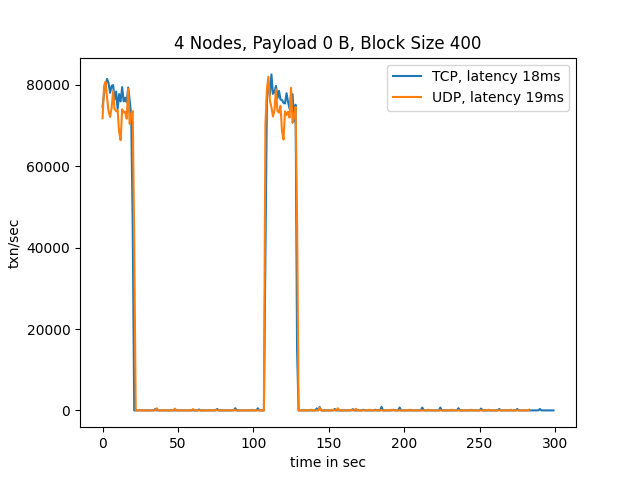
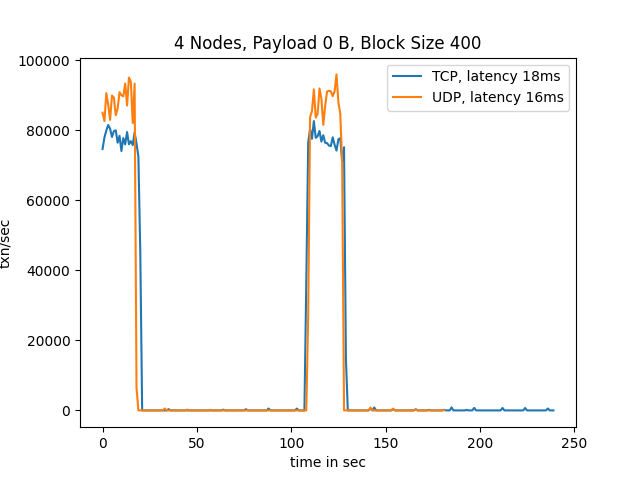
HotStuff: update log

diff --git a/hotstuff/evaluation/plot.py b/hotstuff/evaluation/plot.py
@@ -13,6 +13,8 @@ def plot_thr(fname, arrays, latency):
     udp_latency = str(latency[1])
 
     max_x = 300
+    if (n == 4) max_x = 240
+
     tcp_data = arrays[0][:max_x]
     udp_data = arrays[1][:max_x]
 
@@ -31,17 +33,21 @@ if __name__ == '__main__':
     ## Payload 0
     # 4 Nodes
     n4_tcp_pay0_b400 = [74593, 77870, 79894, 81456, 80397, 78037, 79707, 79941, 76394, 78360, 74029, 77724, 75924, 79442, 75946, 76850, 75711, 79358, 76158, 72468, 45233, 0, 0, 0, 0, 0, 0, 0, 0, 0, 0, 0, 0, 0, 0, 358, 0, 0, 0, 0, 0, 0, 0, 0, 0, 0, 0, 0, 0, 0, 0, 0, 0, 0, 0, 0, 0, 0, 0, 0, 0, 0, 0, 0, 218, 0, 0, 0, 0, 0, 0, 0, 0, 0, 0, 0, 345, 0, 0, 0, 0, 0, 0, 0, 0, 0, 0, 0, 535, 0, 0, 0, 0, 0, 0, 0, 0, 0, 0, 0, 0, 0, 0, 525, 0, 0, 0, 0, 36902, 76510, 80319, 77519, 82569, 77788, 78270, 79754, 76701, 78543, 76383, 76289, 75578, 75418, 77958, 75807, 74146, 77382, 77700, 71065, 75104, 14653, 0, 0, 0, 0, 0, 0, 0, 0, 0, 0, 0, 0, 492, 0, 842, 0, 0, 0, 0, 0, 0, 0, 0, 0, 350, 0, 0, 0, 0, 0, 0, 0, 0, 0, 0, 0, 304, 0, 0, 0, 0, 0, 0, 157, 0, 0, 0, 0, 0, 0, 0, 175, 0, 0, 0, 855, 0, 0, 0, 0, 0, 0, 0, 156, 0, 0, 0, 715, 0, 0, 0, 0, 0, 0, 0, 0, 0, 0, 0, 0, 0, 0, 700, 0, 0, 0, 0, 0, 0, 0, 0, 0, 0, 0, 700, 0, 0, 0, 0, 0, 0, 0, 0, 0, 0, 0, 540, 0, 0, 0, 0, 0, 0, 0, 0, 0, 0, 0, 0, 0, 0, 464, 0, 0, 0, 0, 0, 0, 0, 0, 0, 0, 0, 350, 0, 0, 0, 0, 0, 0, 0, 0, 0, 0, 0, 350, 0, 0, 0, 0, 0, 0, 0, 0, 0, 0, 0, 0, 0, 0, 350, 0, 0, 0, 0, 0, 0, 0, 0, 0, 0, 0, 350, 0, 0, 0, 0, 0, 0, 0, 0, 0, 0, 0, 263, 0, 0, 0, 0, 0, 0, 0, 0, 0, 0, 0, 0, 0, 0, 175, 0, 0, 0, 0, 0, 0, 0, 0, 0, 0, 0, 175, 0, 0, 0, 0, 0, 0, 0, 0, 0, 0, 0, 175, 0, 0, 0, 0, 0, 0, 0, 0, 0, 0, 0, 0, 0, 0, 175, 0, 0, 0, 0, 0, 0, 0, 0, 0, 0, 0, 175, 0, 0, 0, 0, 0, 0, 0, 0, 0, 0, 0, 175, 0, 0, 0, 0, 0, 0, 0, 0, 0, 0, 0, 0, 0, 0, 175, 0, 0, 0, 0, 0, 0, 0, 0, 0, 0, 0, 175]
-    n4_udp_pay0_b400 = [71781, 79702, 80775, 76817, 73470, 72108, 74235, 78400, 74050, 73520, 73822, 68424, 66396, 74028, 73192, 73434, 71689, 79086, 70412, 72832, 73556, 41612, 0, 0, 0, 0, 0, 0, 0, 0, 0, 0, 0, 0, 0, 0, 512, 0, 0, 0, 0, 0, 0, 0, 0, 0, 0, 0, 453, 0, 0, 0, 0, 0, 0, 0, 0, 0, 0, 0, 319, 0, 0, 0, 0, 0, 0, 0, 0, 0, 0, 0, 0, 0, 0, 175, 0, 0, 0, 0, 0, 0, 0, 0, 0, 0, 0, 175, 0, 0, 0, 0, 0, 0, 0, 0, 0, 0, 0, 175, 0, 0, 0, 0, 0, 0, 0, 0, 70299, 79034, 82000, 76087, 74497, 72208, 73734, 78887, 73529, 73183, 74826, 68600, 66561, 73504, 72542, 73391, 71934, 79283, 70668, 72463, 74586, 46793, 0, 0, 0, 0, 0, 0, 0, 0, 175, 0, 0, 0, 0, 0, 688, 0, 0, 0, 0, 0, 0, 0, 0, 175, 0, 0, 525, 0, 0, 0, 0, 0, 0, 0, 0, 175, 0, 0, 388, 0, 0, 0, 0, 0, 0, 0, 0, 175, 0, 0, 0, 0, 0, 140, 0, 0, 0, 0, 0, 0, 0, 0, 175, 0, 0, 0, 0, 0, 0, 0, 0, 0, 0, 0, 175, 0, 0, 0, 0, 0, 0, 0, 0, 0, 0, 0, 175, 0, 0, 0, 0, 0, 0, 0, 0, 0, 0, 0, 0, 0, 0, 175, 0, 0, 0, 0, 0, 0, 0, 0, 0, 0, 0, 0, 175, 0, 0, 0, 0, 0, 0, 0, 0, 0, 0, 0, 175, 0, 0, 0, 0, 0, 0, 0, 0, 0, 0, 0, 0, 0, 0, 175, 0, 0, 0, 0, 0, 0, 0, 0, 0, 0, 0, 175]
+    n4_udp_pay0_b400 = [84959, 82563, 90545, 87239, 82906, 89854, 89262, 84253, 86120, 90815, 89950, 89628, 93292, 87008, 94996, 93816, 82026, 93263, 6463, 0, 0, 0, 0, 0, 0, 0, 0, 0, 0, 0, 0, 0, 0, 547, 0, 0, 0, 0, 0, 0, 0, 0, 0, 0, 0, 238, 0, 0, 0, 0, 0, 0, 0, 0, 0, 0, 0, 175, 0, 0, 0, 0, 0, 0, 0, 0, 0, 0, 0, 0, 0, 0, 82, 0, 0, 0, 0, 0, 0, 0, 0, 0, 0, 0, 0, 0, 0, 0, 0, 0, 0, 0, 0, 0, 0, 0, 0, 0, 0, 0, 0, 0, 0, 0, 0, 0, 0, 0, 0, 26850, 83676, 85418, 91627, 83556, 84642, 91873, 88950, 81499, 86948, 90979, 91252, 91082, 89678, 91092, 95894, 87977, 84680, 70569, 0, 0, 0, 0, 0, 0, 0, 0, 0, 0, 0, 0, 0, 0, 823, 0, 0, 0, 0, 0, 0, 0, 0, 0, 0, 0, 525, 0, 0, 0, 0, 0, 0, 0, 0, 0, 0, 0, 328, 0, 0, 0, 0, 0, 0, 0, 0, 0, 0, 0, 0, 0, 0, 82]
+    
+    fail_n4_udp_pay0_b400 = [71781, 79702, 80775, 76817, 73470, 72108, 74235, 78400, 74050, 73520, 73822, 68424, 66396, 74028, 73192, 73434, 71689, 79086, 70412, 72832, 73556, 41612, 0, 0, 0, 0, 0, 0, 0, 0, 0, 0, 0, 0, 0, 0, 512, 0, 0, 0, 0, 0, 0, 0, 0, 0, 0, 0, 453, 0, 0, 0, 0, 0, 0, 0, 0, 0, 0, 0, 319, 0, 0, 0, 0, 0, 0, 0, 0, 0, 0, 0, 0, 0, 0, 175, 0, 0, 0, 0, 0, 0, 0, 0, 0, 0, 0, 175, 0, 0, 0, 0, 0, 0, 0, 0, 0, 0, 0, 175, 0, 0, 0, 0, 0, 0, 0, 0, 70299, 79034, 82000, 76087, 74497, 72208, 73734, 78887, 73529, 73183, 74826, 68600, 66561, 73504, 72542, 73391, 71934, 79283, 70668, 72463, 74586, 46793, 0, 0, 0, 0, 0, 0, 0, 0, 175, 0, 0, 0, 0, 0, 688, 0, 0, 0, 0, 0, 0, 0, 0, 175, 0, 0, 525, 0, 0, 0, 0, 0, 0, 0, 0, 175, 0, 0, 388, 0, 0, 0, 0, 0, 0, 0, 0, 175, 0, 0, 0, 0, 0, 140, 0, 0, 0, 0, 0, 0, 0, 0, 175, 0, 0, 0, 0, 0, 0, 0, 0, 0, 0, 0, 175, 0, 0, 0, 0, 0, 0, 0, 0, 0, 0, 0, 175, 0, 0, 0, 0, 0, 0, 0, 0, 0, 0, 0, 0, 0, 0, 175, 0, 0, 0, 0, 0, 0, 0, 0, 0, 0, 0, 0, 175, 0, 0, 0, 0, 0, 0, 0, 0, 0, 0, 0, 175, 0, 0, 0, 0, 0, 0, 0, 0, 0, 0, 0, 0, 0, 0, 175, 0, 0, 0, 0, 0, 0, 0, 0, 0, 0, 0, 175]
     
     # 8 Nodes
     n8_tcp_pay0_b400 = [68133, 77065, 76588, 75450, 75558, 75922, 74677, 73542, 73197, 75483, 74297, 76045, 74172, 73599, 76744, 73477, 73270, 72965, 72658, 72252, 72668, 27675, 0, 0, 0, 0, 0, 0, 0, 0, 0, 0, 0, 583, 0, 0, 0, 0, 0, 0, 0, 0, 0, 0, 0, 700, 0, 0, 0, 0, 0, 0, 0, 0, 0, 0, 0, 325, 0, 0, 0, 0, 0, 0, 0, 0, 0, 0, 0, 700, 0, 0, 0, 0, 0, 0, 0, 0, 0, 0, 0, 0, 0, 0, 0, 0, 0, 0, 0, 325, 0, 0, 0, 0, 0, 0, 0, 0, 0, 0, 0, 725, 0, 0, 0, 0, 0, 0, 36094, 73852, 75171, 72928, 74350, 74379, 73813, 72774, 74315, 73297, 71717, 76000, 74001, 73362, 74781, 72597, 72659, 72803, 71829, 71747, 72564, 69491, 9239, 0, 0, 0, 0, 0, 0, 0, 0, 0, 705, 0, 617, 0, 0, 0, 0, 0, 0, 0, 0, 0, 0, 0, 875, 700, 0, 0, 0, 0, 0, 0, 0, 0, 0, 0, 875, 523, 0, 0, 0, 0, 0, 0, 0, 0, 0, 0, 475, 0, 0, 0, 131, 219, 0, 0, 0, 0, 0, 0, 0, 0, 0, 0, 0, 191, 0, 0, 875, 0, 0, 0, 0, 0, 0, 0, 0, 350, 0, 0, 771, 0, 0, 0, 0, 0, 0, 0, 0, 350, 0, 0, 0, 0, 0, 700, 0, 0, 0, 0, 0, 0, 0, 0, 350, 0, 0, 700, 0, 0, 0, 0, 0, 0, 0, 0, 350, 0, 0, 720, 0, 0, 0, 0, 0, 0, 0, 0, 0, 0, 0, 350, 0, 0, 700, 0, 0, 0, 0, 0, 0, 0, 0, 350, 0, 0, 700, 0, 0, 0, 0, 0, 0, 0, 0, 350, 0, 0, 0, 0, 0, 700, 0, 0, 0, 0, 0, 350, 0, 0, 0, 0, 0, 609, 0, 0, 0, 0, 0, 0, 0, 0, 350, 0, 0, 525, 0, 0, 0, 0, 0, 0, 0, 0, 350, 0, 0, 450, 0, 0, 0, 0, 0, 0, 0, 0, 0, 0, 0, 350, 0, 0, 350, 0, 0, 0, 0, 0, 0, 0, 0, 350, 0, 0, 350, 0, 0, 0, 0, 0, 0, 0, 0, 0, 0, 0, 0, 0, 0, 350, 0, 0, 0, 0, 0, 0, 0, 0, 0, 0, 0, 350, 0, 0, 0, 0, 0, 0, 0, 0, 0, 0, 0, 350, 0, 0, 0, 0, 0, 0, 0, 0, 0, 0, 0, 350, 0, 0, 0, 0, 0, 0, 0, 0, 0, 0, 0, 0, 0, 0, 350, 0, 0, 0, 0, 0, 0, 0, 0, 0, 0, 0, 350, 0, 0, 0, 0, 0, 0, 0, 0, 0, 0, 0, 0, 0, 0, 350, 0, 0, 0, 0, 0, 0, 0, 0, 0, 0, 0, 350]
-    n8_udp_pay0_b400 = [500, 0, 0, 0, 0, 0, 0, 0, 0, 0, 0, 0, 0, 0, 0, 655, 0, 0, 0, 0, 0, 0, 0, 0, 0, 0, 0, 745, 0, 0, 0, 0, 0, 0, 0, 0, 0, 0, 0, 0, 0, 0, 42164, 45503, 45606, 46789, 45619, 45492, 45237, 45230, 45639, 42799, 45443, 45974, 44589, 46431, 45627, 45858, 46203, 45017, 46141, 46356, 45559, 45404, 45013, 44946, 44876, 45450, 45084, 45071, 45266, 45080, 45500, 46116, 4015, 0, 0, 0, 0, 0, 0, 0, 0, 0, 0, 0, 0, 0, 0, 0, 0, 0, 0, 0, 489, 0, 0, 0, 0, 0, 0, 0, 0, 0, 0, 0, 0, 0, 700, 0, 0, 0, 0, 0, 0, 0, 0, 0, 0, 0, 0, 0, 0, 545, 0, 0, 0, 0, 0, 0, 0, 0, 0, 0, 0, 855, 0, 0, 0, 0, 312, 0, 0, 0, 0, 0, 0, 0, 0, 0, 32778, 40112, 40506, 40994, 40648, 39938, 40086, 39825, 40480, 37959, 40488, 40532, 39843, 40297, 40768, 40402, 40687, 39838, 40657, 41185, 40102, 40318, 39971, 39138, 39568, 40576, 39792, 40001, 39936, 39742, 40234, 40649, 8718, 0, 0, 0, 0, 477, 0, 0, 0, 0, 0, 0, 0, 0, 0, 0, 0, 0, 0, 0, 1151, 0, 0, 0, 0, 0, 0, 0, 0, 0, 0, 0, 0, 0, 0, 0, 0, 0, 0, 0, 700, 0, 0, 0, 0, 0, 0, 0, 0, 0, 0, 0, 0, 0, 0, 332, 0, 0, 0, 0, 0, 0, 0, 0, 0, 0, 459, 700, 0, 0, 0, 0, 0, 0, 0, 0, 0, 0, 0, 0, 0, 0, 427, 0, 0, 0, 1018, 0, 0, 0, 0, 0, 0, 0, 0, 0, 0, 0, 0, 0, 0, 467, 700, 0, 0, 0, 0, 0, 0, 0, 0, 0, 0, 752, 0, 0, 0, 336, 0, 0, 0, 0, 0, 0, 0, 0, 0, 0, 610, 700, 0, 0, 0, 0, 0, 0, 0, 0, 0, 0, 0, 0, 0, 0, 547, 0, 0, 0, 1050, 0, 0, 0, 0, 0, 0, 0, 0, 0, 0, 0, 0, 0, 0, 718, 0, 0, 0, 0, 0, 0, 0, 0, 0, 0, 0, 1050, 0, 0, 0, 0, 0, 0, 0, 0, 0, 0, 0, 0, 0, 0, 623, 0, 0, 0, 0, 0, 0, 0, 0, 0, 0, 0, 0, 0, 0, 0, 0, 0, 0, 0, 1050, 0, 0, 0, 0, 0, 0, 0, 0, 0, 0, 0, 0, 0, 0, 714, 0, 0, 0, 0, 0, 0, 0, 0, 0, 0, 0, 1050, 0, 0, 0, 0, 0, 0, 0, 0, 0, 0, 0, 0, 0, 0, 503]
-    n8_udp_pay0_b400_2 = [1378, 0, 0, 0, 0, 0, 0, 0, 0, 0, 0, 0, 0, 0, 0, 697, 0, 0, 0, 0, 0, 0, 0, 0, 0, 0, 0, 2057, 0, 0, 0, 0, 0, 0, 0, 0, 0, 0, 0, 0, 0, 0, 0, 0, 0, 0, 0, 0, 0, 0, 0, 0, 0, 0, 0, 0, 0, 0, 0, 0, 0, 0, 0, 0, 0, 0, 0, 0, 0, 0, 0, 0, 0, 677, 0, 0, 0, 0, 0, 0, 0, 0, 0, 0, 0, 31017, 42191, 42150, 41774, 41804, 41148, 41321, 42089, 41921, 41991, 42502, 42351, 42908, 42783, 43542, 43011, 43226, 43570, 33150, 29883, 29447, 29890, 29875, 31325, 29842, 29905, 29377, 29238, 29837, 29644, 29875, 30455, 29742, 29708, 29447, 39437, 41667, 43993, 45183, 0, 0, 0, 0, 0, 0, 0, 0, 0, 0, 0, 2777, 241, 0, 0, 0, 0, 0, 0, 0, 0, 0, 0, 0, 664, 0, 0, 0, 0, 0, 0, 0, 0, 0, 0, 0, 0, 0, 0, 0, 0, 0, 0, 0, 0, 0, 0, 0, 0, 0, 0, 0, 0, 0, 0, 0, 0, 523, 0, 0, 0, 0, 0, 0, 0, 0, 0, 0, 0, 25241, 42538, 42699, 41896, 41847, 41693, 42009, 42142, 42375, 42022, 43074, 43639, 42951, 43953, 43699, 43624, 43336, 44203, 35575, 29984, 30084, 29936, 29681, 30951, 29914, 30809, 29593, 29649, 29766, 30118, 30269, 30522, 29930, 29906, 29982, 37321, 42561, 40704, 31709, 3920, 0, 0, 0, 0, 0, 0, 0, 0, 0, 0, 0, 525, 0, 0, 0, 0, 0, 0, 0, 0, 0, 0, 0, 536, 0, 0, 0, 0, 0, 0, 0, 0, 0, 0, 0, 0, 0, 0, 0, 0, 0, 0, 0, 442, 0, 0, 0, 0, 0, 0, 0, 0, 0, 0, 0, 882, 0, 0, 0, 0, 0, 0, 0, 0, 0, 0, 0, 595, 0, 621, 0, 0, 0, 0, 0, 0, 0, 0, 0, 0, 0, 571, 0, 0, 0, 0, 0, 0, 0, 0, 0, 0, 0, 497, 0, 0, 0, 0, 0, 0, 0, 0, 0, 0, 0, 592, 0, 0, 0, 0, 0, 0, 0, 0, 0, 0, 0, 0, 0, 0, 0, 0, 0, 0, 0, 0, 0, 0, 0, 0, 0, 0, 0, 0, 0, 0, 0, 0, 0, 0, 0, 0, 0, 0, 0, 0, 0, 0, 0, 0, 0, 283, 0, 0, 0, 0, 0, 0, 0, 0, 0, 0, 0, 793, 0, 0, 0, 0, 0, 0, 0, 0, 0, 0, 0, 605]
+    
+    
+    fail_n8_udp_pay0_b400 = [500, 0, 0, 0, 0, 0, 0, 0, 0, 0, 0, 0, 0, 0, 0, 655, 0, 0, 0, 0, 0, 0, 0, 0, 0, 0, 0, 745, 0, 0, 0, 0, 0, 0, 0, 0, 0, 0, 0, 0, 0, 0, 42164, 45503, 45606, 46789, 45619, 45492, 45237, 45230, 45639, 42799, 45443, 45974, 44589, 46431, 45627, 45858, 46203, 45017, 46141, 46356, 45559, 45404, 45013, 44946, 44876, 45450, 45084, 45071, 45266, 45080, 45500, 46116, 4015, 0, 0, 0, 0, 0, 0, 0, 0, 0, 0, 0, 0, 0, 0, 0, 0, 0, 0, 0, 489, 0, 0, 0, 0, 0, 0, 0, 0, 0, 0, 0, 0, 0, 700, 0, 0, 0, 0, 0, 0, 0, 0, 0, 0, 0, 0, 0, 0, 545, 0, 0, 0, 0, 0, 0, 0, 0, 0, 0, 0, 855, 0, 0, 0, 0, 312, 0, 0, 0, 0, 0, 0, 0, 0, 0, 32778, 40112, 40506, 40994, 40648, 39938, 40086, 39825, 40480, 37959, 40488, 40532, 39843, 40297, 40768, 40402, 40687, 39838, 40657, 41185, 40102, 40318, 39971, 39138, 39568, 40576, 39792, 40001, 39936, 39742, 40234, 40649, 8718, 0, 0, 0, 0, 477, 0, 0, 0, 0, 0, 0, 0, 0, 0, 0, 0, 0, 0, 0, 1151, 0, 0, 0, 0, 0, 0, 0, 0, 0, 0, 0, 0, 0, 0, 0, 0, 0, 0, 0, 700, 0, 0, 0, 0, 0, 0, 0, 0, 0, 0, 0, 0, 0, 0, 332, 0, 0, 0, 0, 0, 0, 0, 0, 0, 0, 459, 700, 0, 0, 0, 0, 0, 0, 0, 0, 0, 0, 0, 0, 0, 0, 427, 0, 0, 0, 1018, 0, 0, 0, 0, 0, 0, 0, 0, 0, 0, 0, 0, 0, 0, 467, 700, 0, 0, 0, 0, 0, 0, 0, 0, 0, 0, 752, 0, 0, 0, 336, 0, 0, 0, 0, 0, 0, 0, 0, 0, 0, 610, 700, 0, 0, 0, 0, 0, 0, 0, 0, 0, 0, 0, 0, 0, 0, 547, 0, 0, 0, 1050, 0, 0, 0, 0, 0, 0, 0, 0, 0, 0, 0, 0, 0, 0, 718, 0, 0, 0, 0, 0, 0, 0, 0, 0, 0, 0, 1050, 0, 0, 0, 0, 0, 0, 0, 0, 0, 0, 0, 0, 0, 0, 623, 0, 0, 0, 0, 0, 0, 0, 0, 0, 0, 0, 0, 0, 0, 0, 0, 0, 0, 0, 1050, 0, 0, 0, 0, 0, 0, 0, 0, 0, 0, 0, 0, 0, 0, 714, 0, 0, 0, 0, 0, 0, 0, 0, 0, 0, 0, 1050, 0, 0, 0, 0, 0, 0, 0, 0, 0, 0, 0, 0, 0, 0, 503]
+    fail_n8_udp_pay0_b400_2 = [1378, 0, 0, 0, 0, 0, 0, 0, 0, 0, 0, 0, 0, 0, 0, 697, 0, 0, 0, 0, 0, 0, 0, 0, 0, 0, 0, 2057, 0, 0, 0, 0, 0, 0, 0, 0, 0, 0, 0, 0, 0, 0, 0, 0, 0, 0, 0, 0, 0, 0, 0, 0, 0, 0, 0, 0, 0, 0, 0, 0, 0, 0, 0, 0, 0, 0, 0, 0, 0, 0, 0, 0, 0, 677, 0, 0, 0, 0, 0, 0, 0, 0, 0, 0, 0, 31017, 42191, 42150, 41774, 41804, 41148, 41321, 42089, 41921, 41991, 42502, 42351, 42908, 42783, 43542, 43011, 43226, 43570, 33150, 29883, 29447, 29890, 29875, 31325, 29842, 29905, 29377, 29238, 29837, 29644, 29875, 30455, 29742, 29708, 29447, 39437, 41667, 43993, 45183, 0, 0, 0, 0, 0, 0, 0, 0, 0, 0, 0, 2777, 241, 0, 0, 0, 0, 0, 0, 0, 0, 0, 0, 0, 664, 0, 0, 0, 0, 0, 0, 0, 0, 0, 0, 0, 0, 0, 0, 0, 0, 0, 0, 0, 0, 0, 0, 0, 0, 0, 0, 0, 0, 0, 0, 0, 0, 523, 0, 0, 0, 0, 0, 0, 0, 0, 0, 0, 0, 25241, 42538, 42699, 41896, 41847, 41693, 42009, 42142, 42375, 42022, 43074, 43639, 42951, 43953, 43699, 43624, 43336, 44203, 35575, 29984, 30084, 29936, 29681, 30951, 29914, 30809, 29593, 29649, 29766, 30118, 30269, 30522, 29930, 29906, 29982, 37321, 42561, 40704, 31709, 3920, 0, 0, 0, 0, 0, 0, 0, 0, 0, 0, 0, 525, 0, 0, 0, 0, 0, 0, 0, 0, 0, 0, 0, 536, 0, 0, 0, 0, 0, 0, 0, 0, 0, 0, 0, 0, 0, 0, 0, 0, 0, 0, 0, 442, 0, 0, 0, 0, 0, 0, 0, 0, 0, 0, 0, 882, 0, 0, 0, 0, 0, 0, 0, 0, 0, 0, 0, 595, 0, 621, 0, 0, 0, 0, 0, 0, 0, 0, 0, 0, 0, 571, 0, 0, 0, 0, 0, 0, 0, 0, 0, 0, 0, 497, 0, 0, 0, 0, 0, 0, 0, 0, 0, 0, 0, 592, 0, 0, 0, 0, 0, 0, 0, 0, 0, 0, 0, 0, 0, 0, 0, 0, 0, 0, 0, 0, 0, 0, 0, 0, 0, 0, 0, 0, 0, 0, 0, 0, 0, 0, 0, 0, 0, 0, 0, 0, 0, 0, 0, 0, 0, 283, 0, 0, 0, 0, 0, 0, 0, 0, 0, 0, 0, 793, 0, 0, 0, 0, 0, 0, 0, 0, 0, 0, 0, 605]
     
     # 16 Nodes
     n16_tcp_pay0_b400 = [38222, 45999, 44159, 45685, 42811, 43111, 43687, 46082, 44163, 44175, 44390, 43935, 45327, 42759, 40818, 44562, 40519, 40164, 44091, 41145, 42389, 44620, 39791, 46769, 45628, 42113, 41250, 44018, 42709, 43970, 44765, 40356, 43142, 42681, 41350, 41221, 25056, 15071, 0, 0, 0, 0, 0, 0, 0, 0, 0, 0, 0, 392, 0, 0, 0, 0, 0, 0, 0, 0, 0, 0, 0, 525, 0, 0, 0, 0, 0, 0, 0, 0, 0, 0, 0, 150, 0, 0, 0, 0, 0, 0, 0, 0, 0, 0, 0, 525, 0, 0, 0, 0, 0, 0, 0, 0, 0, 0, 0, 0, 150, 0, 0, 0, 0, 0, 0, 0, 0, 0, 20541, 41683, 42337, 41183, 42447, 40527, 43306, 43577, 42016, 43912, 43563, 42190, 42390, 42840, 41188, 41900, 41550, 41322, 41444, 41898, 41956, 41838, 42099, 42392, 43968, 42474, 42414, 41316, 42175, 41774, 42339, 41465, 41554, 42786, 40432, 39919, 40723, 34593, 8841, 0, 0, 0, 0, 0, 356, 0, 0, 0, 0, 0, 808, 0, 0, 0, 0, 0, 350, 0, 0, 0, 0, 0, 1050, 0, 0, 0, 0, 0, 350, 0, 0, 0, 0, 0, 1050, 0, 0, 0, 0, 0, 350, 0, 0, 0, 0, 0, 650, 0, 0, 0, 0, 0, 350, 0, 0, 0, 0, 0, 1050, 0, 0, 0, 0, 0, 350, 0, 0, 0, 0, 0, 0, 0, 0, 650, 0, 0, 308, 0, 0, 0, 0, 0, 0, 0, 0, 1050, 0, 0, 175, 0, 0, 0, 0, 0, 0, 0, 0, 0, 0, 0, 1225, 0, 0, 0, 0, 0, 0, 0, 0, 0, 0, 0, 1098, 0, 0, 0, 0, 0, 0, 0, 0, 0, 0, 0, 1050, 0, 0, 0, 0, 0, 0, 0, 0, 0, 0, 0, 1050, 0, 0, 0, 0, 0, 0, 0, 0, 0, 0, 0, 1050, 0, 0, 0, 0, 0, 0, 0, 0, 0, 0, 0, 1050, 0, 0, 0, 0, 0, 0, 0, 0, 0, 0, 0, 875, 0, 0, 0, 0, 0, 0, 0, 0, 0, 0, 0, 875, 0, 0, 0, 0, 0, 0, 0, 0, 0, 0, 0, 755, 0, 0, 0, 0, 0, 0, 0, 0, 0, 0, 0, 620, 0, 0, 0, 0, 0, 0, 0, 0, 0, 0, 0, 350, 0, 0, 0, 0, 0, 0, 0, 0, 0, 0, 0, 350, 0, 0, 0, 0, 0, 0, 0, 0, 0, 0, 0, 20, 330, 0, 0, 0, 0, 0, 0, 0, 0, 0, 0, 0, 350, 0, 0, 0, 0, 0, 0, 0, 0, 0, 0, 0, 350]
-    n16_udp_pay0_b400 = [3678, 0, 0, 0, 0, 0, 0, 0, 0, 0, 0, 0, 721, 0, 0, 0, 0, 0, 0, 0, 0, 0, 0, 0, 3409, 0, 0, 0, 0, 0, 0, 0, 0, 0, 0, 0, 0, 0, 0, 735, 0, 0, 0, 0, 0, 0, 0, 0, 0, 0, 0, 1400, 0, 0, 0, 0, 0, 0, 0, 0, 0, 0, 0, 1579, 0, 0, 0, 0, 0, 0, 0, 0, 0, 0, 0, 0, 0, 0, 427, 0, 0, 0, 0, 0, 0, 0, 0, 0, 0, 0, 3239, 0, 0, 800, 0, 0, 0, 0, 0, 0, 0, 0, 587, 0, 0, 0, 0, 0, 3922, 0, 0, 0, 0, 0, 9915, 28984, 29313, 29397, 29274, 29320, 30070, 29550, 29090, 29021, 29302, 29713, 29289, 29174, 29056, 29612, 28867, 29254, 29545, 18093, 17847, 18248, 18133, 17969, 17997, 18214, 17734, 18200, 18066, 11800, 7432, 17984, 17759, 18672, 18200, 22525, 29957, 29748, 29408, 29400, 30180, 29445, 29041, 28197, 27263, 31144, 29821, 29555, 29235, 29555, 29722, 29697, 29622, 29968, 29659, 29122, 29312, 31020, 29413, 29142, 29801, 19536, 0, 0, 0, 0, 0, 0, 0, 0, 0, 0, 773, 0, 0, 0, 0, 0, 0, 0, 0, 0, 0, 0, 2379, 1182, 0, 0, 0, 0, 0, 0, 0, 0, 0, 0, 0, 613, 0, 0, 0, 0, 0, 0, 0, 0, 0, 0, 0, 26577, 28564, 29539, 29381, 29148, 29635, 29419, 29643, 28734, 29116, 29571, 29548, 29215, 29224, 29416, 29165, 28914, 29375, 19109, 17781, 17960, 18183, 18182, 17995, 17832, 18181, 18047, 18200, 18194, 1575, 17168, 18076, 18130, 18046, 18197, 28932, 29851, 29589, 29564, 29332, 29252, 29376, 28853, 26166, 29599, 29730, 29843, 29400, 29399, 29581, 29571, 29652, 29906, 29724, 29539, 29122, 29446, 29339, 29413, 29359, 29466, 3130]
-    n16_udp_pay0_b400_2 = [5472, 0, 0, 0, 0, 0, 0, 0, 0, 0, 0, 0, 0, 0, 0, 823, 0, 0, 0, 0, 0, 0, 0, 0, 0, 0, 0, 1433, 0, 0, 0, 0, 0, 0, 0, 0, 0, 0, 0, 179, 0, 0, 0, 0, 0, 0, 0, 0, 0, 0, 0, 19171, 29069, 28919, 28554, 28503, 29139, 29054, 28904, 28717, 28742, 28251, 28677, 28315, 28654, 28859, 28903, 28862, 28615, 21317, 19056, 18371, 18810, 18466, 18388, 18583, 18387, 19029, 13741, 18897, 19039, 18862, 18034, 18347, 18451, 18156, 25540, 28404, 29047, 28656, 28934, 28888, 28717, 28859, 29115, 28596, 29101, 29069, 28713, 29178, 28493, 26676, 28730, 16622, 28712, 25172, 28636, 21004, 6128, 0, 0, 0, 0, 0, 0, 0, 0, 0, 0, 0, 0, 0, 0, 377, 0, 0, 0, 0, 0, 0, 0, 0, 0, 0, 0, 1767, 0, 0, 0, 0, 0, 0, 0, 0, 0, 0, 0, 1021, 0, 0, 0, 0, 0, 0, 0, 0, 0, 0, 0, 5456, 26150, 26433, 26136, 26253, 25996, 26561, 26405, 26300, 25990, 26054, 25811, 25904, 25675, 26495, 26313, 25965, 26358, 23859, 17183, 17026, 16788, 17138, 16699, 17076, 16849, 16720, 17053, 12943, 17426, 17224, 16702, 16602, 16959, 16610, 18699, 26114, 26144, 26203, 26547, 26066, 26584, 25838, 26682, 26097, 26550, 26358, 26284, 26339, 26389, 24872, 25426, 25521, 15878, 23837, 25483, 25881, 5592]
+    fail_n16_udp_pay0_b400 = [3678, 0, 0, 0, 0, 0, 0, 0, 0, 0, 0, 0, 721, 0, 0, 0, 0, 0, 0, 0, 0, 0, 0, 0, 3409, 0, 0, 0, 0, 0, 0, 0, 0, 0, 0, 0, 0, 0, 0, 735, 0, 0, 0, 0, 0, 0, 0, 0, 0, 0, 0, 1400, 0, 0, 0, 0, 0, 0, 0, 0, 0, 0, 0, 1579, 0, 0, 0, 0, 0, 0, 0, 0, 0, 0, 0, 0, 0, 0, 427, 0, 0, 0, 0, 0, 0, 0, 0, 0, 0, 0, 3239, 0, 0, 800, 0, 0, 0, 0, 0, 0, 0, 0, 587, 0, 0, 0, 0, 0, 3922, 0, 0, 0, 0, 0, 9915, 28984, 29313, 29397, 29274, 29320, 30070, 29550, 29090, 29021, 29302, 29713, 29289, 29174, 29056, 29612, 28867, 29254, 29545, 18093, 17847, 18248, 18133, 17969, 17997, 18214, 17734, 18200, 18066, 11800, 7432, 17984, 17759, 18672, 18200, 22525, 29957, 29748, 29408, 29400, 30180, 29445, 29041, 28197, 27263, 31144, 29821, 29555, 29235, 29555, 29722, 29697, 29622, 29968, 29659, 29122, 29312, 31020, 29413, 29142, 29801, 19536, 0, 0, 0, 0, 0, 0, 0, 0, 0, 0, 773, 0, 0, 0, 0, 0, 0, 0, 0, 0, 0, 0, 2379, 1182, 0, 0, 0, 0, 0, 0, 0, 0, 0, 0, 0, 613, 0, 0, 0, 0, 0, 0, 0, 0, 0, 0, 0, 26577, 28564, 29539, 29381, 29148, 29635, 29419, 29643, 28734, 29116, 29571, 29548, 29215, 29224, 29416, 29165, 28914, 29375, 19109, 17781, 17960, 18183, 18182, 17995, 17832, 18181, 18047, 18200, 18194, 1575, 17168, 18076, 18130, 18046, 18197, 28932, 29851, 29589, 29564, 29332, 29252, 29376, 28853, 26166, 29599, 29730, 29843, 29400, 29399, 29581, 29571, 29652, 29906, 29724, 29539, 29122, 29446, 29339, 29413, 29359, 29466, 3130]
+    fail_n16_udp_pay0_b400_2 = [5472, 0, 0, 0, 0, 0, 0, 0, 0, 0, 0, 0, 0, 0, 0, 823, 0, 0, 0, 0, 0, 0, 0, 0, 0, 0, 0, 1433, 0, 0, 0, 0, 0, 0, 0, 0, 0, 0, 0, 179, 0, 0, 0, 0, 0, 0, 0, 0, 0, 0, 0, 19171, 29069, 28919, 28554, 28503, 29139, 29054, 28904, 28717, 28742, 28251, 28677, 28315, 28654, 28859, 28903, 28862, 28615, 21317, 19056, 18371, 18810, 18466, 18388, 18583, 18387, 19029, 13741, 18897, 19039, 18862, 18034, 18347, 18451, 18156, 25540, 28404, 29047, 28656, 28934, 28888, 28717, 28859, 29115, 28596, 29101, 29069, 28713, 29178, 28493, 26676, 28730, 16622, 28712, 25172, 28636, 21004, 6128, 0, 0, 0, 0, 0, 0, 0, 0, 0, 0, 0, 0, 0, 0, 377, 0, 0, 0, 0, 0, 0, 0, 0, 0, 0, 0, 1767, 0, 0, 0, 0, 0, 0, 0, 0, 0, 0, 0, 1021, 0, 0, 0, 0, 0, 0, 0, 0, 0, 0, 0, 5456, 26150, 26433, 26136, 26253, 25996, 26561, 26405, 26300, 25990, 26054, 25811, 25904, 25675, 26495, 26313, 25965, 26358, 23859, 17183, 17026, 16788, 17138, 16699, 17076, 16849, 16720, 17053, 12943, 17426, 17224, 16702, 16602, 16959, 16610, 18699, 26114, 26144, 26203, 26547, 26066, 26584, 25838, 26682, 26097, 26550, 26358, 26284, 26339, 26389, 24872, 25426, 25521, 15878, 23837, 25483, 25881, 5592]
     
     ## Payload 128
     # 4 Nodes
@@ -58,7 +64,7 @@ if __name__ == '__main__':
         "n8_pay0_b400" : (n8_tcp_pay0_b400, n8_udp_pay0_b400),
         #"n8_udp_pay0_b400_2" : n8_udp_pay0_b400_2,
 
-        "n16_tcp_pay0_b400" : (n16_tcp_pay0_b400, n16_udp_pay0_b400_2),
+        "n16_pay0_b400" : (n16_tcp_pay0_b400, n16_udp_pay0_b400_2),
         # "n16_udp_pay0_b400" : n16_udp_pay0_b400,
 
         # "n4_pay128_b400" : n4_tcp_pay128_b400,
@@ -69,12 +75,12 @@ if __name__ == '__main__':
     }
 
     lat = {
-        "n4_pay0_b400" : (18, 19),
+        "n4_pay0_b400" : (18, 16),
 
         "n8_pay0_b400" : (19, 28),
         #"n8_udp_pay0_b400_2" : 32,
 
-        "n16_tcp_pay0_b400" : (32, 44),
+        "n16_pay0_b400" : (32, 44),
         #"n16_udp_pay0_b400" : 48,
 
         # "n4_tcp_pay128_b400" : 23,

diff --git a/hotstuff/src/hotstuff.cpp b/hotstuff/src/hotstuff.cpp
@@ -209,8 +209,12 @@ void HotStuffBase::propose_handler(MsgPropose &&msg, const Net::conn_t &conn) {
 
     auto &prop = msg.proposal;
 
-    if (prop.proposer == get_id() || prop.proposer != pmaker->get_proposer()) {
-        LOG_INFO("drop proposal");
+    if (prop.proposer == get_id()) {
+        LOG_INFO("drop proposal from myself");
+        return;
+    }
+    else if (prop.proposer != pmaker->get_proposer()) {
+        LOG_INFO("drop proposal from invalid proposer %d", prop.proposer);
         return;
     }
 
